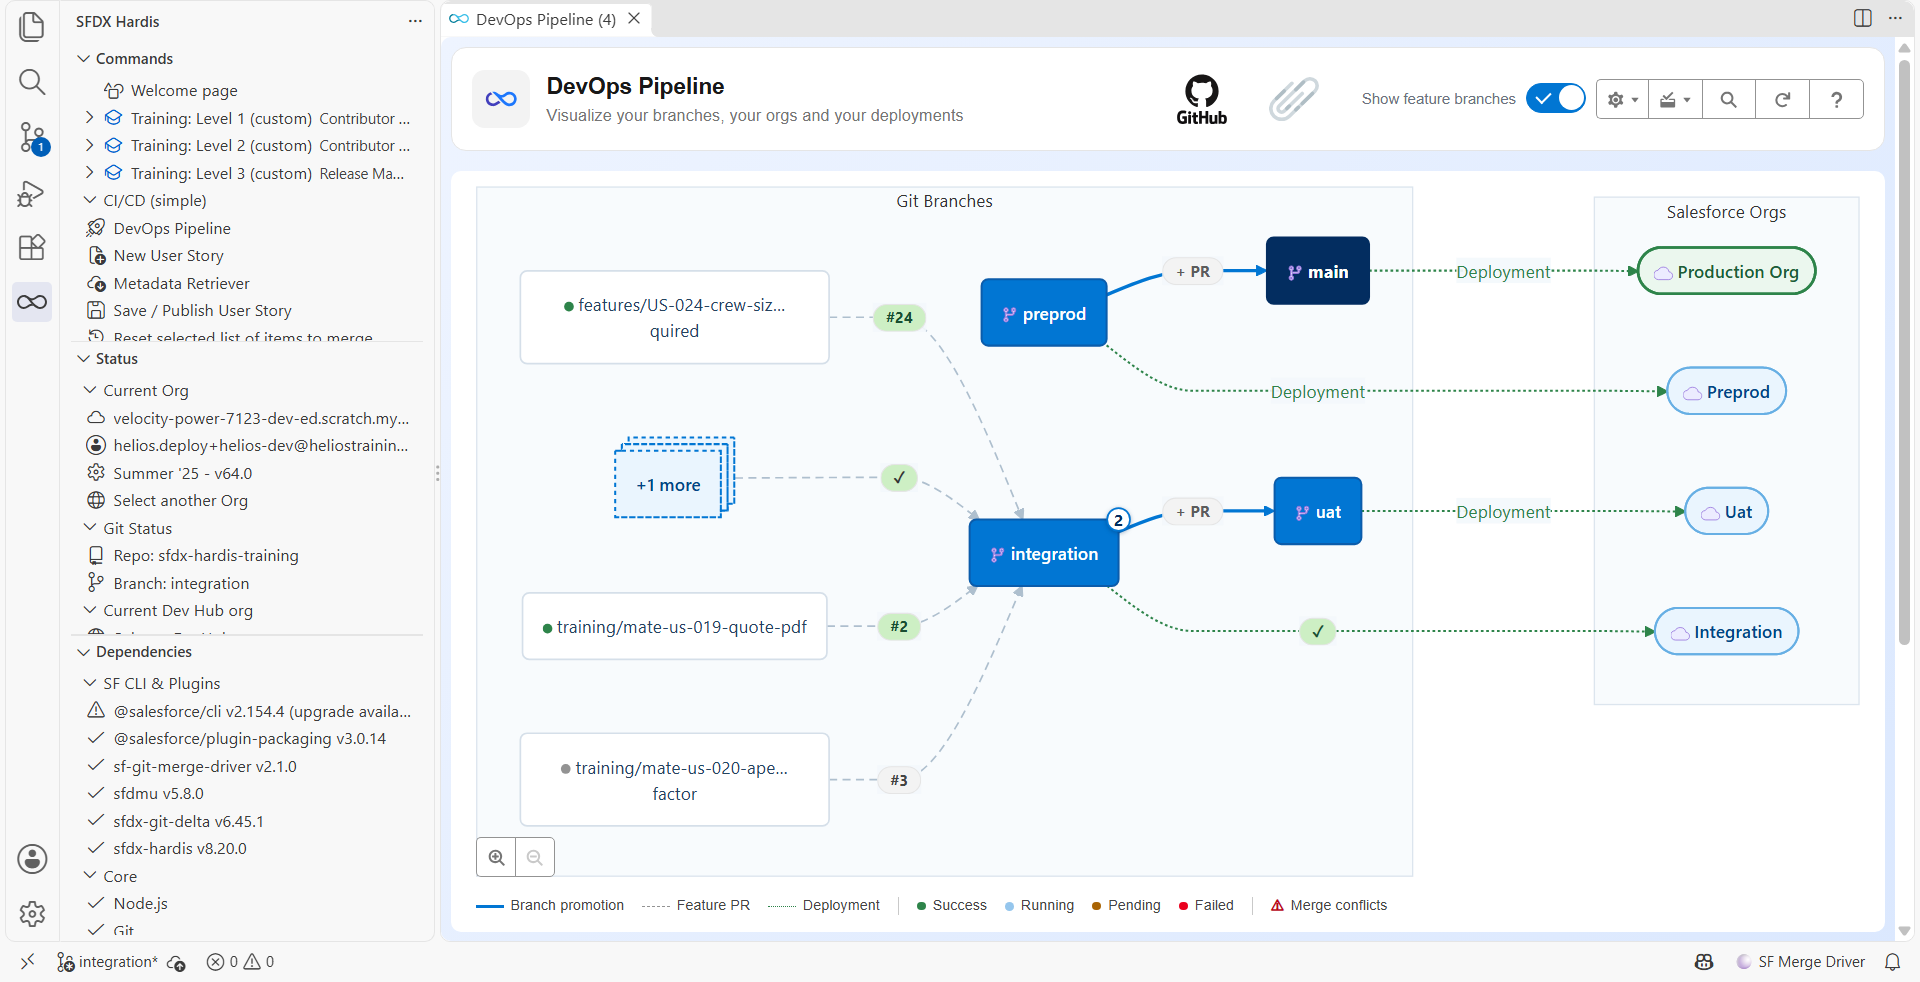
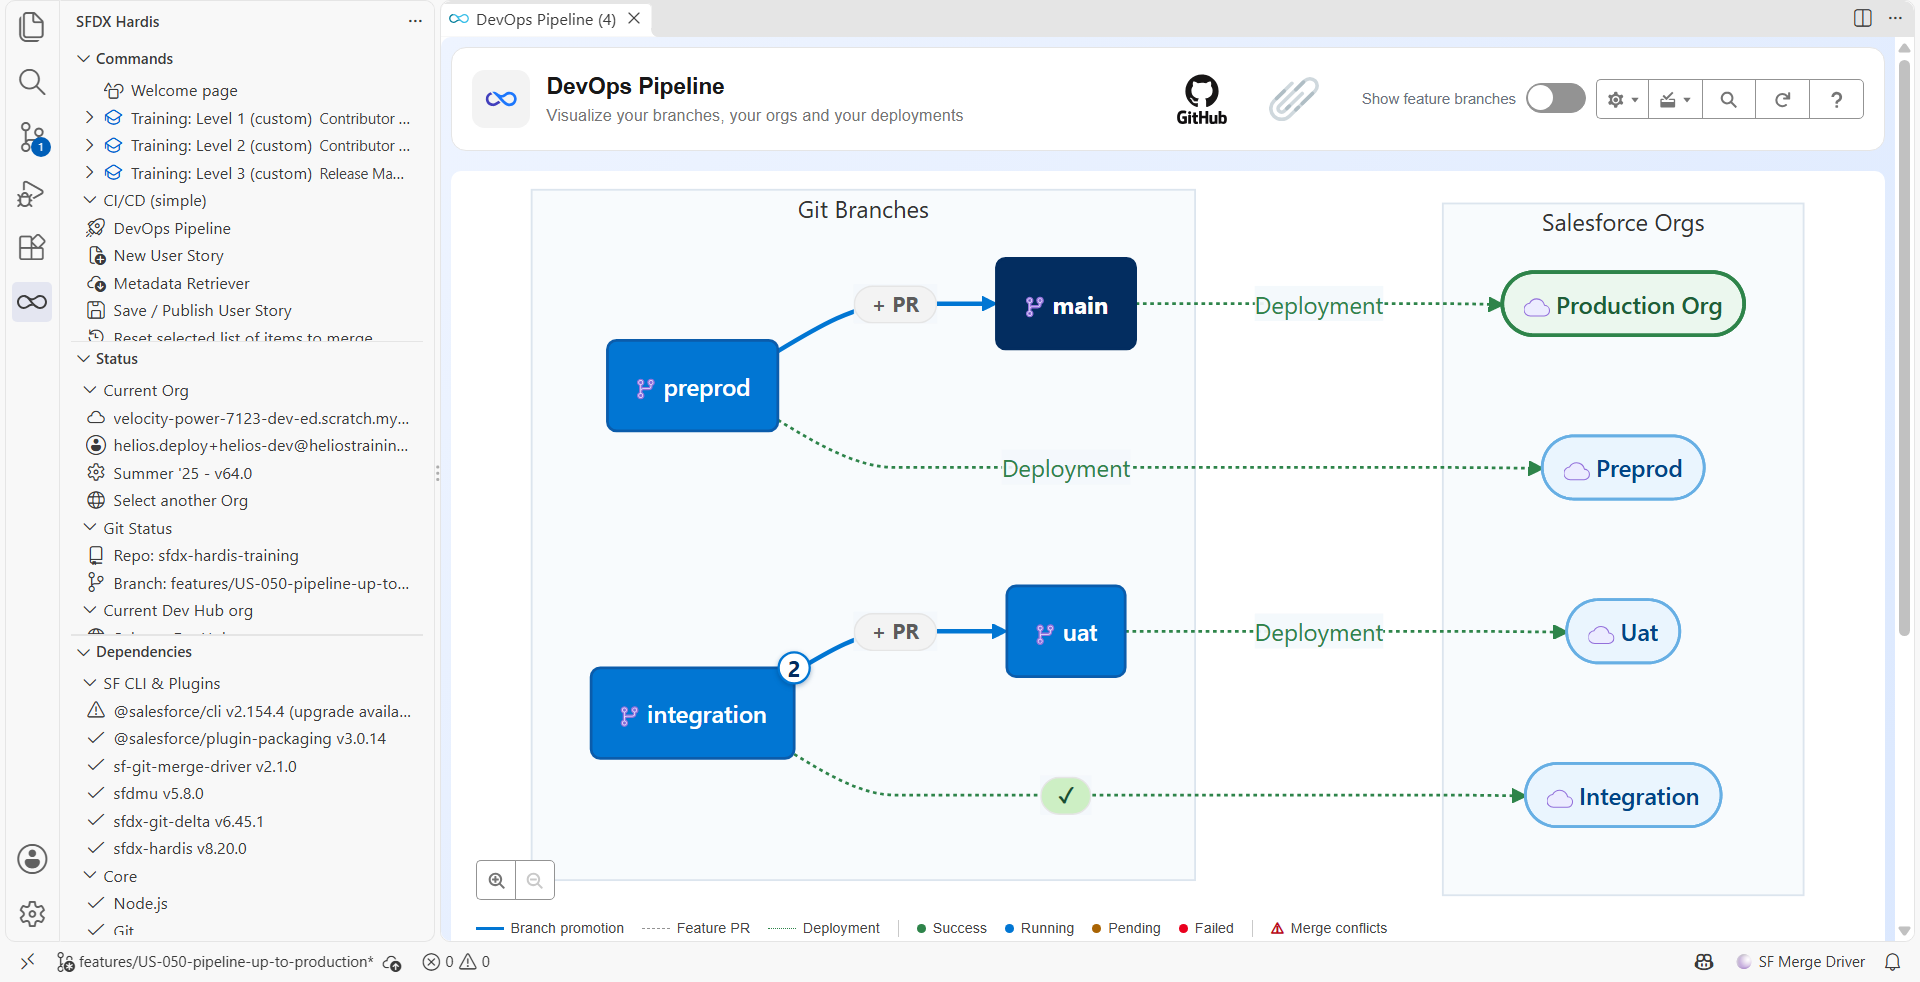
fix(labs 3.1, 3.3, 3.4, 3.7): review fixes
- Lab 3.1: step 8 picture without the feature branches of later labs, on the US-050 branch, no pills
- Lab 3.3: describe the missing Retry without quoting a note the branch window does not show
- Lab 3.4: US-020 is Mariia's Pull Request
- Lab 3.7: the retrofit troubleshooting keeps the open Pull Request
- Simulate my teammates: the Open the Pull Request button comes at the very end

diff --git a/labs/fr/level-3-release-manager/3-3-deploy-to-integration-and-read-the-log.md b/labs/fr/level-3-release-manager/3-3-deploy-to-integration-and-read-the-log.md
@@ -5,7 +5,7 @@ description: "Lisez un log de déploiement sfdx-hardis, trouvez ce qu'un joker .
 level: 3
 lab: 3
 lang: fr
-source_rev: "a5e76f9113483dc764d10f7b83338108a156f44a"
+source_rev: "c4d307ed701a3a65a3dcd6ab39442c7f5a48a0e5"
 screenshots:
   - annotated/vscode/pipeline-config-deployment--delta
   - annotated/vscode/orgs-manager
@@ -343,8 +343,8 @@ l'étape 10 vous a fait récupérer `integration` et faire un pull. Si vous avez
 depuis, revenez-y.
 
 !!! warning "Pas de Retry sur la ligne, seulement Mark as done ?"
-    L'onglet affiche un bandeau qui commence par *Read from integration* : vous n'êtes pas sur
-    `integration`. Récupérez-la, faites un pull, et cliquez sur **Refresh**. Ne relancez pas le
+    VS Code n'est pas sur `integration`, donc la définition de l'action n'est pas dans votre
+    copie de travail. Récupérez `integration`, faites un pull, et cliquez sur **Refresh**. Ne relancez pas le
     job sur GitHub à la place : il redéploie tout, sans le Quick Deploy, et rejoue les actions
     depuis le début.
 
@@ -530,7 +530,7 @@ jour depuis le panneau **Dependencies**, et vérifiez que l'icône du fournisseu
 Pipeline est connectée. Une ligne ne propose Retry que si son action a échoué ou a été arrêtée,
 après le déploiement.
 
-**La ligne en échec n'a pas de Retry, seulement Mark as done, sous un bandeau *Read from integration*.**
+**La ligne en échec n'a pas de Retry, seulement Mark as done.**
 La branche que vous avez récupérée n'est pas `integration`. Récupérez-la, faites un pull, cliquez
 sur **Refresh**. Relancer le job de déploiement sur GitHub n'est pas la même chose : il redéploie
 tout, sans le Quick Deploy, et la première action échoue tant que le groupe n'existe pas.

diff --git a/labs/fr/level-3-release-manager/3-1-configure-the-pipeline-up-to-production.md b/labs/fr/level-3-release-manager/3-1-configure-the-pipeline-up-to-production.md
@@ -5,10 +5,10 @@ description: "Étendez une pipeline Salesforce à deux étages jusqu'à la produ
 level: 3
 lab: 1
 lang: fr
-source_rev: "58d4e0c502a27d0c74d386e4c0822b391e92979c"
+source_rev: "fd3a419fa3203c26da485c1d0aa36bd374d78acf"
 screenshots:
   - annotated/vscode/devops-pipeline--one-column
-  - annotated/vscode/devops-pipeline-level3-split--gap
+  - annotated/vscode/devops-pipeline-level3-split
   - annotated/web/github-new-branch
   - annotated/web/github-branch-rules
   - annotated/web/github-branch-rule
@@ -409,10 +409,10 @@ disponible dans ce lab. Et stockez les deux secrets, l'ID et la clé, comme à l
 Quatre secrets, deux External Client Apps, deux clés. Fastidieux une fois, puis plus jamais.
 
 Regardez maintenant le panneau **DevOps Pipeline**. Il dessine deux morceaux séparés,
-`integration` → `uat` et `preprod` → `main`, sans rien entre `uat` **(1)** et `preprod` **(2)**. Ce trou est
+`integration` → `uat` et `preprod` → `main`, sans rien entre `uat` et `preprod`. Ce trou est
 normal, et le paragraphe suivant le comble.
 
-![Le DevOps Pipeline au milieu de l'étape 8 : integration vers uat, et preprod vers main, sans flèche entre uat et preprod](../../_assets/annotated/vscode/devops-pipeline-level3-split--gap.png)
+![Le DevOps Pipeline au milieu de l'étape 8 : integration vers uat, et preprod vers main, sans flèche entre uat et preprod](../../_assets/annotated/vscode/devops-pipeline-level3-split.png)
 
 **Dites ensuite à `uat` où va son travail.** La commande a écrit que `preprod` se merge dans
 `main`. Rien n'a encore dit que `uat` se merge dans `preprod` : jusqu'ici `uat` était la fin du

diff --git a/labs/en/level-3-release-manager/3-1-configure-the-pipeline-up-to-production.md b/labs/en/level-3-release-manager/3-1-configure-the-pipeline-up-to-production.md
@@ -8,7 +8,7 @@ lang: en
 source_rev: ""
 screenshots:
   - annotated/vscode/devops-pipeline--one-column
-  - annotated/vscode/devops-pipeline-level3-split--gap
+  - annotated/vscode/devops-pipeline-level3-split
   - annotated/web/github-new-branch
   - annotated/web/github-branch-rules
   - annotated/web/github-branch-rule
@@ -391,10 +391,10 @@ available in this lab. And store both secrets, the ID and the key, as in step 6.
 Four secrets, two External Client Apps, two keys. Tedious once, then never again.
 
 Look at the **DevOps Pipeline** panel now. It draws two separate pieces, `integration` → `uat`
-and `preprod` → `main`, with nothing between `uat` **(1)** and `preprod` **(2)**. That gap is expected, and the
+and `preprod` → `main`, with nothing between `uat` and `preprod`. That gap is expected, and the
 next paragraph closes it.
 
-![The DevOps Pipeline in the middle of step 8: integration to uat, and preprod to main, with no arrow between uat and preprod](../../_assets/annotated/vscode/devops-pipeline-level3-split--gap.png)
+![The DevOps Pipeline in the middle of step 8: integration to uat, and preprod to main, with no arrow between uat and preprod](../../_assets/annotated/vscode/devops-pipeline-level3-split.png)
 
 **Then tell `uat` where its work goes next.** The command wrote that `preprod` merges into
 `main`. Nothing has said yet that `uat` merges into `preprod`: until now `uat` was the end of the

diff --git a/labs/en/level-3-release-manager/3-3-deploy-to-integration-and-read-the-log.md b/labs/en/level-3-release-manager/3-3-deploy-to-integration-and-read-the-log.md
@@ -325,7 +325,7 @@ The action definition is read from the branch you have checked out, which is why
 check out `integration` and pull it. If you switched branch since, come back to it.
 
 !!! warning "No Retry on the row, only Mark as done?"
-    The tab shows a banner starting with *Read from integration*: you are not on `integration`.
+    VS Code is not on `integration`, so the action definition is not in your checkout.
     Check it out, pull it, and click **Refresh**. Do not re-run the job on GitHub instead: it
     deploys everything again, without the Quick Deploy, and runs the actions from the start.
 
@@ -496,7 +496,7 @@ The status comes from sfdx-hardis, which needs a recent version and your GitHub 
 it from the **Dependencies** panel, and check the git provider icon of the DevOps Pipeline is
 connected. A row offers Retry only when its action failed or was stopped, after the deployment.
 
-**The failed row has no Retry, only Mark as done, under a banner *Read from integration*.**
+**The failed row has no Retry, only Mark as done.**
 Your checked out branch is not `integration`. Check it out, pull it, click **Refresh**. Re-running
 the deployment job on GitHub is not the same thing: it deploys everything again, without the Quick
 Deploy, and the first action fails until the group exists.

diff --git a/labs/fr/level-3-release-manager/3-7-hotfix-and-retrofit.md b/labs/fr/level-3-release-manager/3-7-hotfix-and-retrofit.md
@@ -5,7 +5,7 @@ description: "Livrez un hotfix Salesforce de preprod vers la production quand la
 level: 3
 lab: 7
 lang: fr
-source_rev: "9dd7d2f5e39ba30454b3bc43e96f7537e9b35c94"
+source_rev: "9ebdf1baaa426ee5abbc6a706ee07cb9f621bd8e"
 screenshots:
   - annotated/salesforce/validation-rule
   - annotated/vscode/welcome-custom-menu-3
@@ -317,11 +317,8 @@ vos fichiers quand vous faites un fetch.
 
 **Le merge n'a rien ramené.**
 Vous avez choisi `main` plutôt que `origin/main`. Relancez **Git: Merge...** et prenez l'entrée
-listée sous **remote branches**.
-
-**Vous avez déjà ouvert une Pull Request de retrofit, et elle ne porte que votre propre commit.**
-Le merge de l'étape 8 n'a pas eu lieu, ou a pris `main` au lieu de `origin/main`. Fermez cette Pull
-Request sur GitHub et supprimez sa branche, puis reprenez l'étape 7.
+listée sous **remote branches**. Si vous avez déjà ouvert la Pull Request de retrofit, relancez **Save / Publish User Story** :
+elle reçoit le merge, et son contrôle repart.
 
 **La Pull Request de retrofit montre des centaines de fichiers modifiés.**
 Votre branche a été tirée d'autre chose que la dernière `integration`. Supprimez-la et reprenez

diff --git a/labs/fr/level-3-release-manager/3-4-merge-colliding-pull-requests.md b/labs/fr/level-3-release-manager/3-4-merge-colliding-pull-requests.md
@@ -5,7 +5,7 @@ description: "Revoyez l'ordre de merge de deux Pull Requests qui ont modifié le
 level: 3
 lab: 4
 lang: fr
-source_rev: "1ccf17769db59363175f2fe5a320915e17b62be6"
+source_rev: "aada58806e608b4a33e8294ef2eff8431b0a9705"
 screenshots:
   - annotated/vscode/welcome-custom-menu-3
   - annotated/vscode/pipeline-config--cleaning-overwrite
@@ -69,7 +69,7 @@ Pull Requests mergées, dans l'onglet **Pull Requests** de la fenêtre `integrat
 Pipeline, ou dans la liste **Closed** des Pull Requests de votre fork sur GitHub. Gardez-les
 ouvertes, les étapes suivantes les lisent.
 
-La commande ouvre pour vous la Pull Request de Romain vers `integration`, affiche son adresse, et
+La commande ouvre pour vous la Pull Request de Mariia vers `integration`, affiche son adresse, et
 se termine par un bouton **Open the Pull Request** en bas du panneau. Attendez les contrôles de
 US-020. Ils échoueront.
 

diff --git a/labs/en/level-3-release-manager/3-7-hotfix-and-retrofit.md b/labs/en/level-3-release-manager/3-7-hotfix-and-retrofit.md
@@ -307,11 +307,8 @@ changes when you fetch.
 
 **The merge brought nothing down.**
 You picked `main` rather than `origin/main`. Run **Git: Merge...** again and take the entry listed
-under **remote branches**.
-
-**You already opened a retrofit Pull Request, and it carries only your own commit.**
-The merge of step 8 did not happen, or took `main` instead of `origin/main`. Close that Pull
-Request on GitHub and delete its branch, then start step 7 again.
+under **remote branches**. If you already opened the retrofit Pull Request, run **Save / Publish User Story** again: it takes
+the merge, and its check runs again.
 
 **The retrofit Pull Request shows hundreds of changed files.**
 Your branch was cut from something other than the latest `integration`. Delete it and start step 7

diff --git a/labs/en/level-3-release-manager/3-4-merge-colliding-pull-requests.md b/labs/en/level-3-release-manager/3-4-merge-colliding-pull-requests.md
@@ -67,7 +67,7 @@ Requests instead, in the **Pull Requests** tab of the `integration` window of th
 panel, or in the **Closed** list of the Pull Requests of your fork on GitHub. Keep both open, the
 next steps read them.
 
-The command opens Romain's Pull Request into `integration` for you, prints its address, and ends
+The command opens Mariia's Pull Request into `integration` for you, prints its address, and ends
 with an **Open the Pull Request** button at the bottom of the panel. Wait for the checks of US-020.
 They will fail.
 
